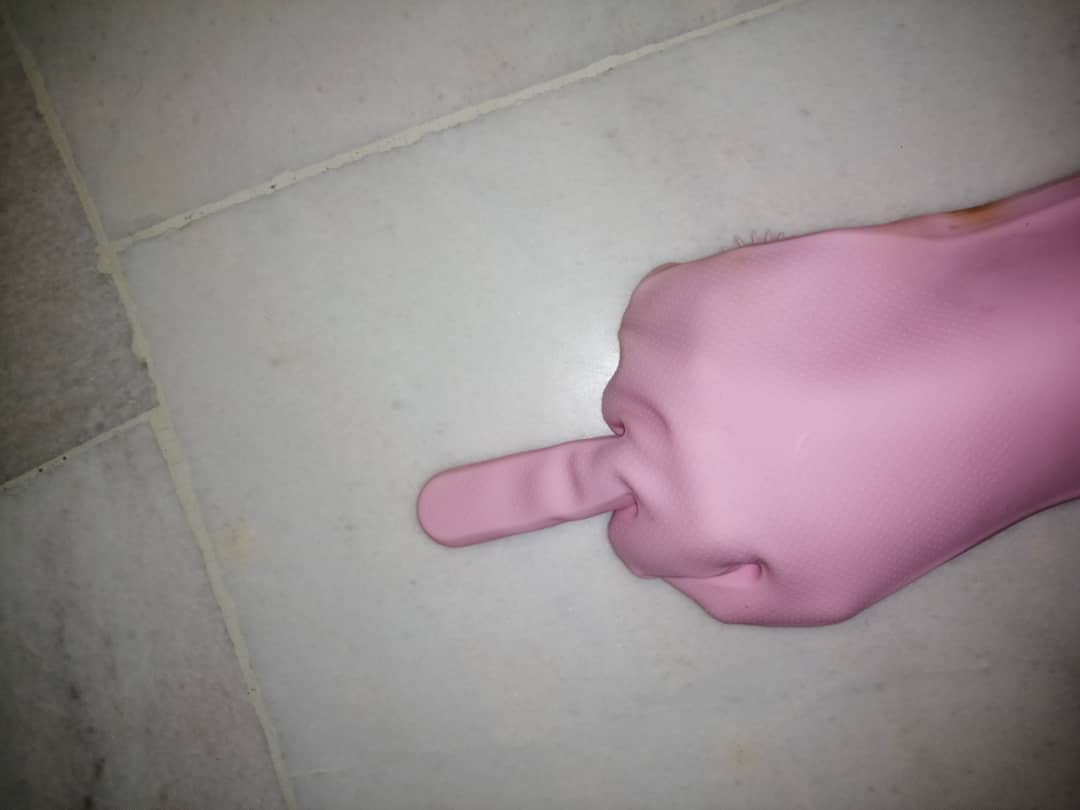
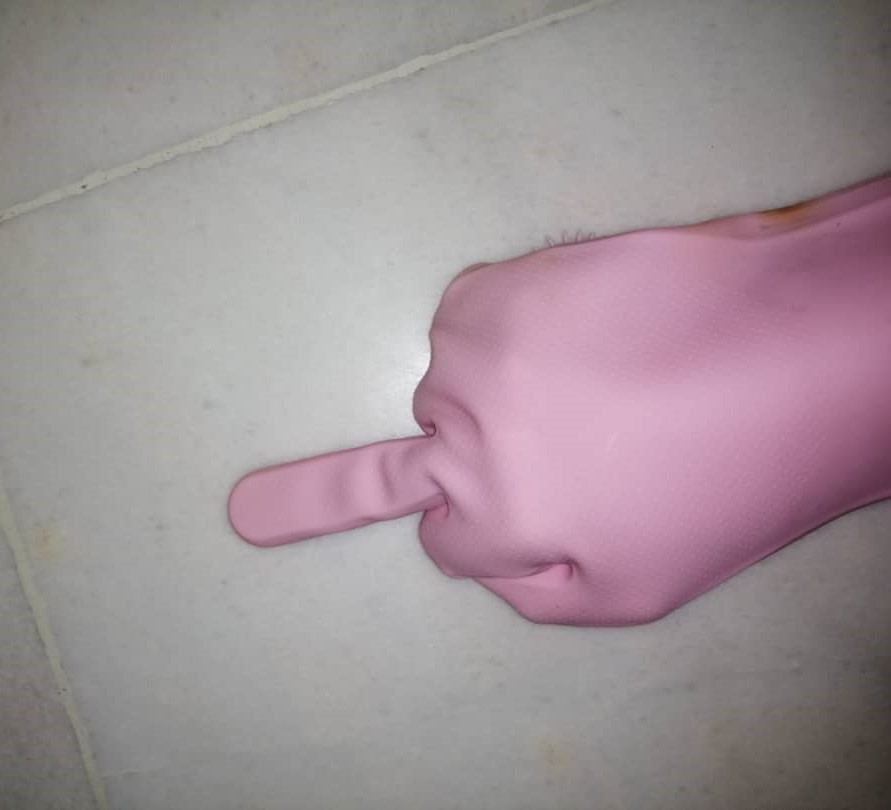
Updated missing finger image for silicone glove
It was resized

diff --git a/main.py b/main.py
@@ -6,27 +6,37 @@ from tuning_utils import *
 from algorithms import *
 medicalGlove1 = cv2.imread("Glove_images/medical/dirty/dirty1.jpeg")
 medicalGlove2 = cv2.imread("Glove_images/medical/dirty/dirty2.jpeg")
-nitrileGlove1 = cv2.imread("Glove_images/nitrile/stain/NITRILE STAIN 1.jpg")
+nitrileGlove1 = cv2.imread("Glove_images/nitrile/fingertip_hole/NITRILE STAIN 1.jpg")
 nitrileGlove2 = cv2.imread("Glove_images/nitrile/stain/NITRILE STAIN 2.jpg")
+nitrileGlove3 = cv2.imread("Glove_images/nitrile/mix/NITRILE MIX 1.jpg")
+nitrileGlove4 = cv2.imread("Glove_images/nitrile/mix/NITRILE MIX 2.jpg")
+nitrileGlove5 = cv2.imread("Glove_images/nitrile/fingertip_hole/NITRILE FINGER HOLE 1.jpg")
+nitrileGlove6 = cv2.imread("Glove_images/nitrile/fingertip_hole/NITRILE FINGER HOLE 2.jpg")
 siliconeGlove1 = cv2.imread("Glove_images/silicone/mould/mould_1.jpeg")
 siliconeGlove2 = cv2.imread("Glove_images/silicone/mould/mould_2.jpeg")
 siliconeGlove3 = cv2.imread("Glove_images/silicone/mould/mould_3.jpeg")
-fabricGlove1 = cv2.imread("Glove_images/fabric/multiple_stains/multiple_stains1.jpg")
+fabricGlove1 = cv2.imread("Glove_images/fabric/stitch/CLOTH STITCH 2.jpg")
 fabricGlove2 = cv2.imread("Glove_images/fabric/multiple_stains/multiple_stains2.jpg")
 
 totalGloveType = 4
 
 
 def main():
-    print(identifyGloveType(medicalGlove1, totalGloveType))
-    print(identifyGloveType(medicalGlove2, totalGloveType))
-    print(identifyGloveType(nitrileGlove1, totalGloveType))
     print(identifyGloveType(nitrileGlove2, totalGloveType))
-    print(identifyGloveType(siliconeGlove1, totalGloveType))
-    print(identifyGloveType(siliconeGlove2, totalGloveType))
-    print(identifyGloveType(siliconeGlove3, totalGloveType))
-    print(identifyGloveType(fabricGlove1, totalGloveType))
-    print(identifyGloveType(fabricGlove2, totalGloveType))
+    cv2.putText(fabricGlove1, 'Glove Type = Nitrile glove', (30, 50), cv2.FONT_HERSHEY_SIMPLEX,
+                0.75, (255, 0, 0), 2, cv2.LINE_AA)
+    cv2.imshow("Glove", fabricGlove1)
+    cv2.waitKey(0)
+
+    print(identifyGloveType(nitrileGlove3, totalGloveType))
+    print(identifyGloveType(nitrileGlove4, totalGloveType))
+    print(identifyGloveType(nitrileGlove5, totalGloveType))
+    print(identifyGloveType(nitrileGlove6, totalGloveType))
+    # print(identifyGloveType(siliconeGlove1, totalGloveType))
+    # print(identifyGloveType(siliconeGlove2, totalGloveType))
+    # print(identifyGloveType(siliconeGlove3, totalGloveType))
+    # print(identifyGloveType(fabricGlove1, totalGloveType))
+    # print(identifyGloveType(fabricGlove2, totalGloveType))
 
 
 if __name__ == "__main__":

diff --git a/tuning_utils.py b/tuning_utils.py
@@ -10,6 +10,10 @@ medicalGlove1 = cv2.imread("Glove_images/medical/dirty/dirty1.jpeg")
 medicalGlove2 = cv2.imread("Glove_images/medical/dirty/dirty2.jpeg")
 nitrileGlove1 = cv2.imread("Glove_images/nitrile/stain/NITRILE STAIN 1.jpg")
 nitrileGlove2 = cv2.imread("Glove_images/nitrile/stain/NITRILE STAIN 2.jpg")
+nitrileGlove3 = cv2.imread("Glove_images/nitrile/mix/NITRILE MIX 1.jpg")
+nitrileGlove4 = cv2.imread("Glove_images/nitrile/mix/NITRILE MIX 2.jpg")
+nitrileGlove5 = cv2.imread("Glove_images/nitrile/fingertip_hole/NITRILE FINGER HOLE 1.jpg")
+nitrileGlove6 = cv2.imread("Glove_images/nitrile/fingertip_hole/NITRILE FINGER HOLE 2.jpg")
 siliconeGlove1 = cv2.imread("Glove_images/silicone/mould/mould_1.jpeg")
 siliconeGlove2 = cv2.imread("Glove_images/silicone/mould/mould_2.jpeg")
 fabricGlove1 = cv2.imread("Glove_images/fabric/multiple_stains/multiple_stains1.jpg")
@@ -101,5 +105,5 @@ def get_hsv_range_with_morphological_operations(img):
     cv2.destroyAllWindows()
 
 
-# get_hsv_range_with_morphological_operations(fabricGlove1)
-# get_hsv_range_with_morphological_operations(fabricGlove2)
+# get_hsv_range_with_morphological_operations(nitrileGlove5)
+# get_hsv_range_with_morphological_operations(nitrileGlove6)

diff --git a/algorithms.py b/algorithms.py
@@ -14,8 +14,10 @@ def colourProfiles(n):
 
     elif n == 1:
         name = "nitrile glove"
+        # hsv_lower = (20, 0, 98)
+        # hsv_upper = (78, 130, 238)
         hsv_lower = (20, 0, 98)
-        hsv_upper = (78, 130, 238)
+        hsv_upper = (78, 130, 255)
 
     elif n == 2:
         name = "silicone glove"
@@ -64,7 +66,6 @@ def identifyGloveType(img, totalGloveType):
         cv2.imshow(gloveName, imgCopy)
         cv2.waitKey(0)
     cv2.destroyAllWindows()
-    print("gloveTypeContourCounts = ", gloveTypeContourCounts)
     countOf1 = 0
     indexesOf1_gloveTypeContourCounts = []
     # if there is a 1 only in gloveTypeContourCounts, return the index!
